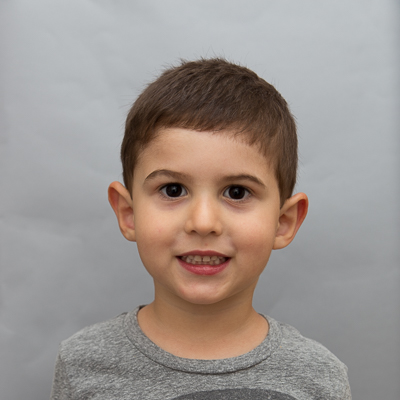
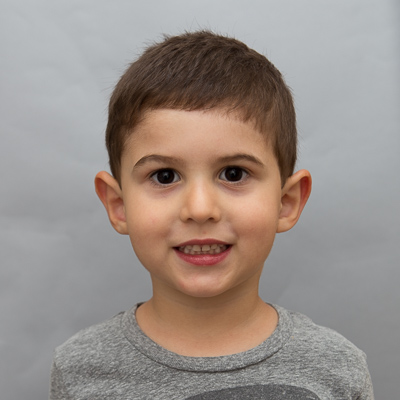
new J17 photo, css consoliation

diff --git a/style.css b/style.css
@@ -34,12 +34,7 @@ p {
 	color:#3B3B3B;
 }
 
-a {
-  /* transition: color .3s; */
-  color: #269268;
-}
-
-a:link,
-/* a:visited { color: #269268; } */
-a:hover   { color: #269268; }
+a:link 		{ color: #269268; }
+a:visited { color: #269268; }
+a:hover   { text-decoration: underline; }
 /* a:active  { color: #269268; } */
